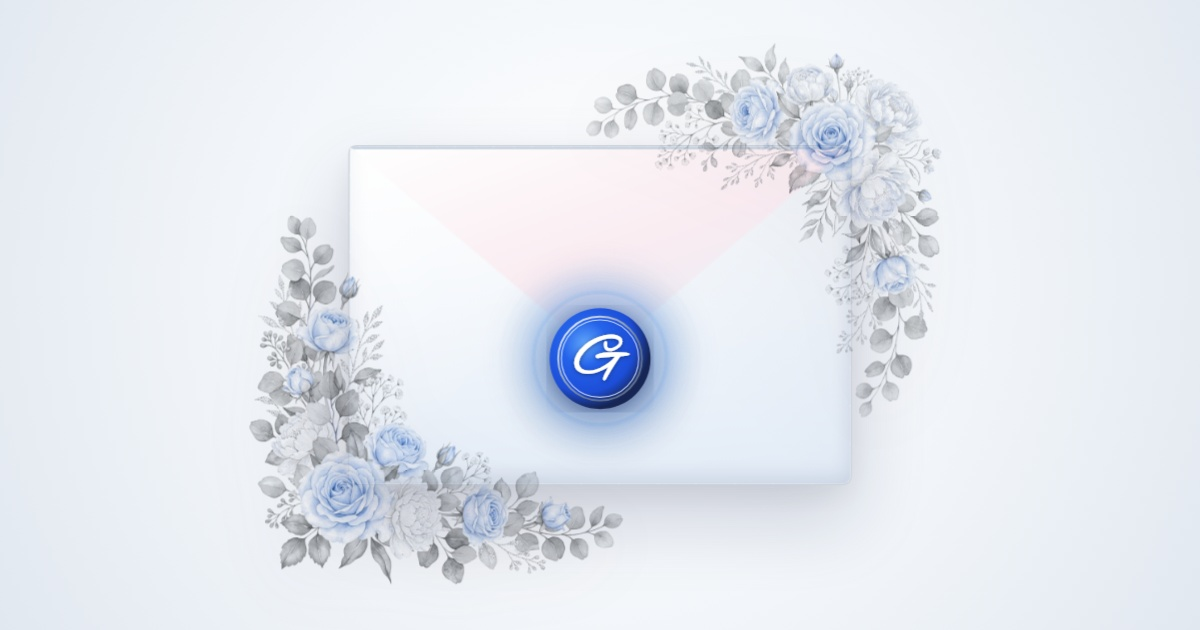
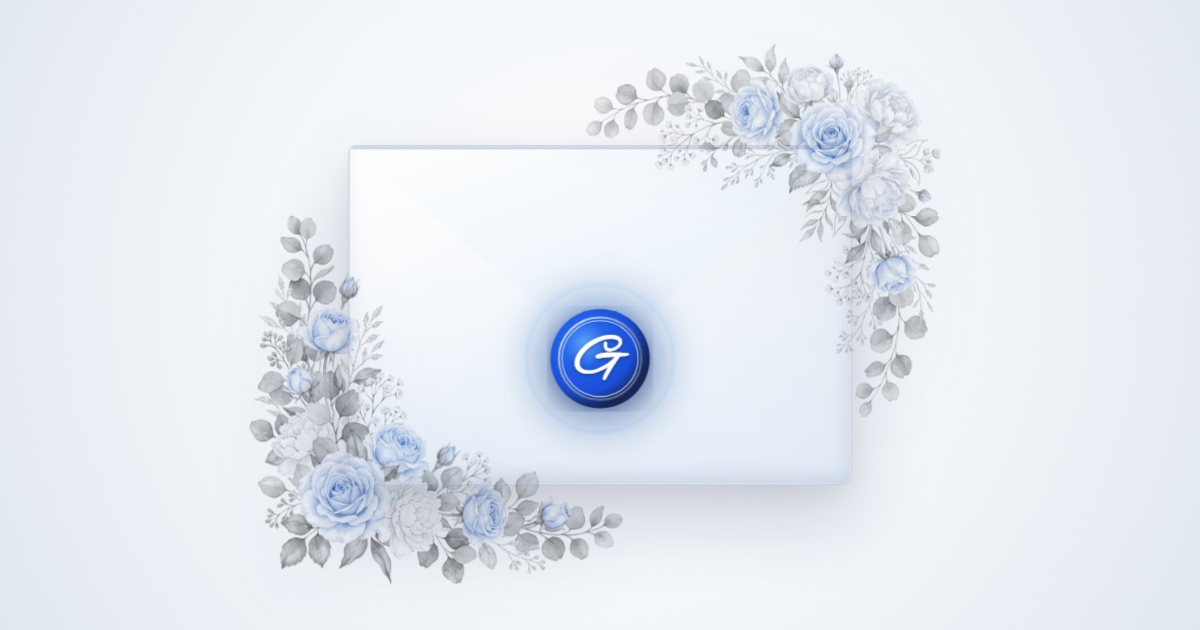
fix(genesis): update og-preview with blue/silver envelope (no pink) and fix mobile ribbon button text sizing

Changed region(s): [[0.4317, 0.4524, 0.555, 0.6937]]

diff --git a/genesislopez/style.css b/genesislopez/style.css
@@ -1736,40 +1736,43 @@ body.site-entered .lang-control-bar {
   background: var(--ribbon-blush);
   border: none;
   cursor: pointer;
-  padding: 0 2.2rem;
+  padding: 0 1.6rem;
+  max-width: calc(100vw - 64px);
   box-shadow: 0 4px 18px rgba(29, 78, 216, 0.28);
   transition: var(--transition-smooth);
 }
 
 .blush-ribbon-btn:hover {
   background: var(--ribbon-blush-hover);
-  transform: scale(1.04);
+  transform: scale(1.03);
 }
 
 .ribbon-center {
   font-family: var(--font-serif);
-  font-size: 1.45rem;
+  font-size: 1.05rem;
   font-weight: 700;
-  letter-spacing: 0.18em;
+  letter-spacing: 0.08em;
   color: #ffffff;
   text-shadow: 0 1px 2px rgba(15, 30, 80, 0.35);
+  white-space: nowrap;
+  text-transform: uppercase;
 }
 
 .ribbon-tail {
   position: absolute;
   top: 0;
-  width: 22px;
+  width: 20px;
   height: 48px;
   background: var(--ribbon-blush);
 }
 
 .ribbon-tail.left {
-  left: -22px;
+  left: -20px;
   clip-path: polygon(100% 0, 100% 100%, 0 50%);
 }
 
 .ribbon-tail.right {
-  right: -22px;
+  right: -20px;
   clip-path: polygon(0 0, 0 100%, 100% 50%);
 }
 
@@ -2737,6 +2740,31 @@ body.site-entered .luxury-envelope-container.is-opened .env-invitation-card {
   .guideline-body-text {
     font-size: 1.04rem;
   }
+
+  /* RSVP Ribbon Button Mobile Fit */
+  .blush-ribbon-btn {
+    height: 44px;
+    padding: 0 1.1rem;
+    max-width: calc(100vw - 44px);
+  }
+
+  .ribbon-center {
+    font-size: 0.84rem;
+    letter-spacing: 0.05em;
+  }
+
+  .ribbon-tail {
+    height: 44px;
+    width: 15px;
+  }
+
+  .ribbon-tail.left {
+    left: -15px;
+  }
+
+  .ribbon-tail.right {
+    right: -15px;
+  }
 }
 
 @media (max-width: 380px) {
@@ -2787,6 +2815,31 @@ body.site-entered .luxury-envelope-container.is-opened .env-invitation-card {
 
   .pt-colon {
     font-size: 1.3rem;
+  }
+
+  /* Ultra-compact Ribbon Button for Small Mobile Viewports */
+  .blush-ribbon-btn {
+    height: 40px;
+    padding: 0 0.85rem;
+    max-width: calc(100vw - 36px);
+  }
+
+  .ribbon-center {
+    font-size: 0.74rem;
+    letter-spacing: 0.04em;
+  }
+
+  .ribbon-tail {
+    height: 40px;
+    width: 13px;
+  }
+
+  .ribbon-tail.left {
+    left: -13px;
+  }
+
+  .ribbon-tail.right {
+    right: -13px;
   }
 }
 

diff --git a/genesislopez/index.html b/genesislopez/index.html
@@ -16,8 +16,8 @@
   <meta property="og:title" content="Genesis Lopez — Invitación de Quinceañera" />
   <meta property="og:description"
     content="Acompáñanos a celebrar los Quince Años de Genesis Lopez. Sábado 26 de Diciembre de 2026 en Brooklyn, New York." />
-  <meta property="og:image" content="https://disenosluna.com/genesislopez/photos/og-preview.jpg" />
-  <meta property="og:image:secure_url" content="https://disenosluna.com/genesislopez/photos/og-preview.jpg" />
+  <meta property="og:image" content="https://disenosluna.com/genesislopez/photos/og-preview.jpg?v=2" />
+  <meta property="og:image:secure_url" content="https://disenosluna.com/genesislopez/photos/og-preview.jpg?v=2" />
   <meta property="og:image:type" content="image/jpeg" />
   <meta property="og:image:width" content="1200" />
   <meta property="og:image:height" content="630" />
@@ -29,7 +29,7 @@
   <meta name="twitter:title" content="Genesis Lopez — Invitación de Quinceañera" />
   <meta name="twitter:description"
     content="Acompáñanos a celebrar los Quince Años de Genesis Lopez. Sábado 26 de Diciembre de 2026 en Brooklyn, New York." />
-  <meta name="twitter:image" content="https://disenosluna.com/genesislopez/photos/og-preview.jpg" />
+  <meta name="twitter:image" content="https://disenosluna.com/genesislopez/photos/og-preview.jpg?v=2" />
 
   <!-- Favicon / Apple Touch Icon -->
   <link rel="icon" type="image/svg+xml" href="favicon.svg" />
@@ -43,7 +43,7 @@
     href="https://fonts.googleapis.com/css2?family=Alex+Brush&family=Cormorant+Garamond:ital,wght@0,400;0,500;0,600;0,700;1,400&family=Montserrat:wght@300;400;500;600;700&family=Playfair+Display:ital,wght@0,400;0,600;0,700;1,400&display=swap"
     rel="stylesheet">
 
-  <link rel="stylesheet" href="style.css?v=2.4.0" />
+  <link rel="stylesheet" href="style.css?v=2.5.0" />
 </head>
 
 <body>

diff --git a/merelinnunez/style.css b/merelinnunez/style.css
@@ -1738,40 +1738,43 @@ body.site-entered .lang-control-bar {
   background: var(--ribbon-blush);
   border: none;
   cursor: pointer;
-  padding: 0 2.2rem;
+  padding: 0 1.6rem;
+  max-width: calc(100vw - 64px);
   box-shadow: 0 4px 18px rgba(184, 107, 132, 0.28);
   transition: var(--transition-smooth);
 }
 
 .blush-ribbon-btn:hover {
   background: var(--ribbon-blush-hover);
-  transform: scale(1.04);
+  transform: scale(1.03);
 }
 
 .ribbon-center {
   font-family: var(--font-serif);
-  font-size: 1.45rem;
+  font-size: 1.05rem;
   font-weight: 700;
-  letter-spacing: 0.18em;
+  letter-spacing: 0.08em;
   color: #ffffff;
   text-shadow: 0 1px 2px rgba(60, 20, 30, 0.25);
+  white-space: nowrap;
+  text-transform: uppercase;
 }
 
 .ribbon-tail {
   position: absolute;
   top: 0;
-  width: 22px;
+  width: 20px;
   height: 48px;
   background: var(--ribbon-blush);
 }
 
 .ribbon-tail.left {
-  left: -22px;
+  left: -20px;
   clip-path: polygon(100% 0, 100% 100%, 0 50%);
 }
 
 .ribbon-tail.right {
-  right: -22px;
+  right: -20px;
   clip-path: polygon(0 0, 0 100%, 100% 50%);
 }
 
